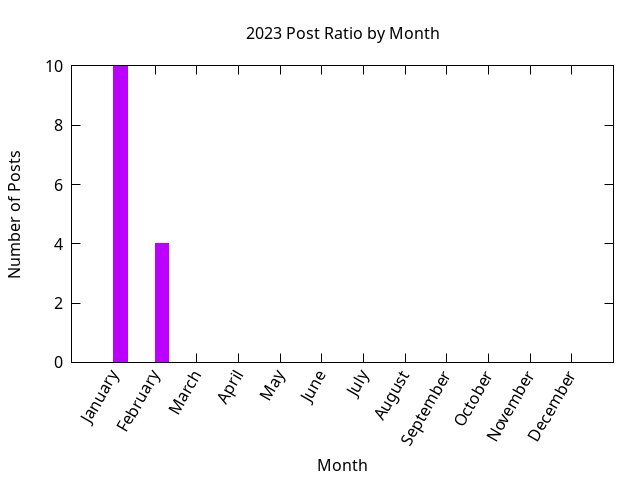
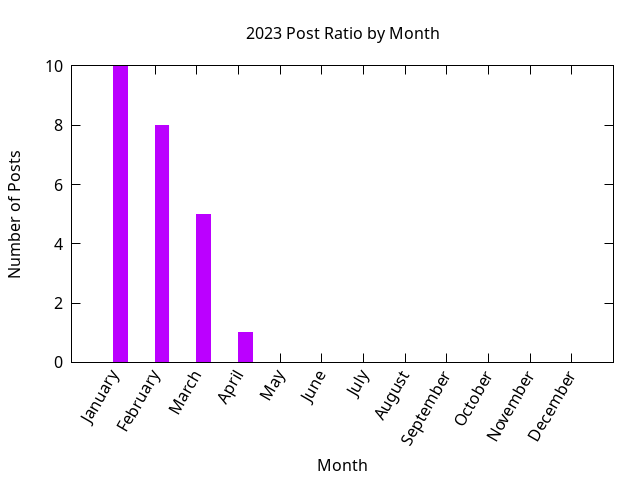
Stats update

Changed region(s): [[0.2188, 0.25, 0.3438, 0.75], [0.375, 0.6875, 0.4062, 0.75]]

diff --git a/_includes/stats/2023.md b/_includes/stats/2023.md
@@ -1,17 +1,18 @@
 <a name="2023" />
 ## 2023 (work in progress)
 
-**14 total posts** have been written on 2023.
-There have been *7 different tags* used, the most
+**24 total posts** have been written on 2023.
+There have been *8 different tags* used, the most
 popular being (sorted by number of posts):
  
-- *perl* (9 posts)  
-- *perlweeklychallenge* (7 posts)  
-- *raku* (7 posts)  
-- *planet-postgresql-org* (4 posts)  
-- *postgresql* (4 posts)  
-- *libreoffice* (1 posts)  
-- *emacs* (1 posts).<br/>
+- *perl* (15 posts)  
+- *raku* (13 posts)  
+- *perlweeklychallenge* (13 posts)  
+- *planet-postgresql-org* (6 posts)  
+- *postgresql* (6 posts)  
+- *oracle* (1 posts)  
+- *emacs* (1 posts)  
+- *libreoffice* (1 posts).<br/>
 <br/>
 The following is the overall 2023 post ratio by month:
 <br/>
@@ -30,7 +31,7 @@ The following is the overall 2023 post ratio by tag (showing max 30 tags):
 
 <div align="right">
 <small>
-Last generated on 2023-02-13 at 12:05
+Last generated on 2023-04-03 at 13:38
 </small>
 </div>
 
